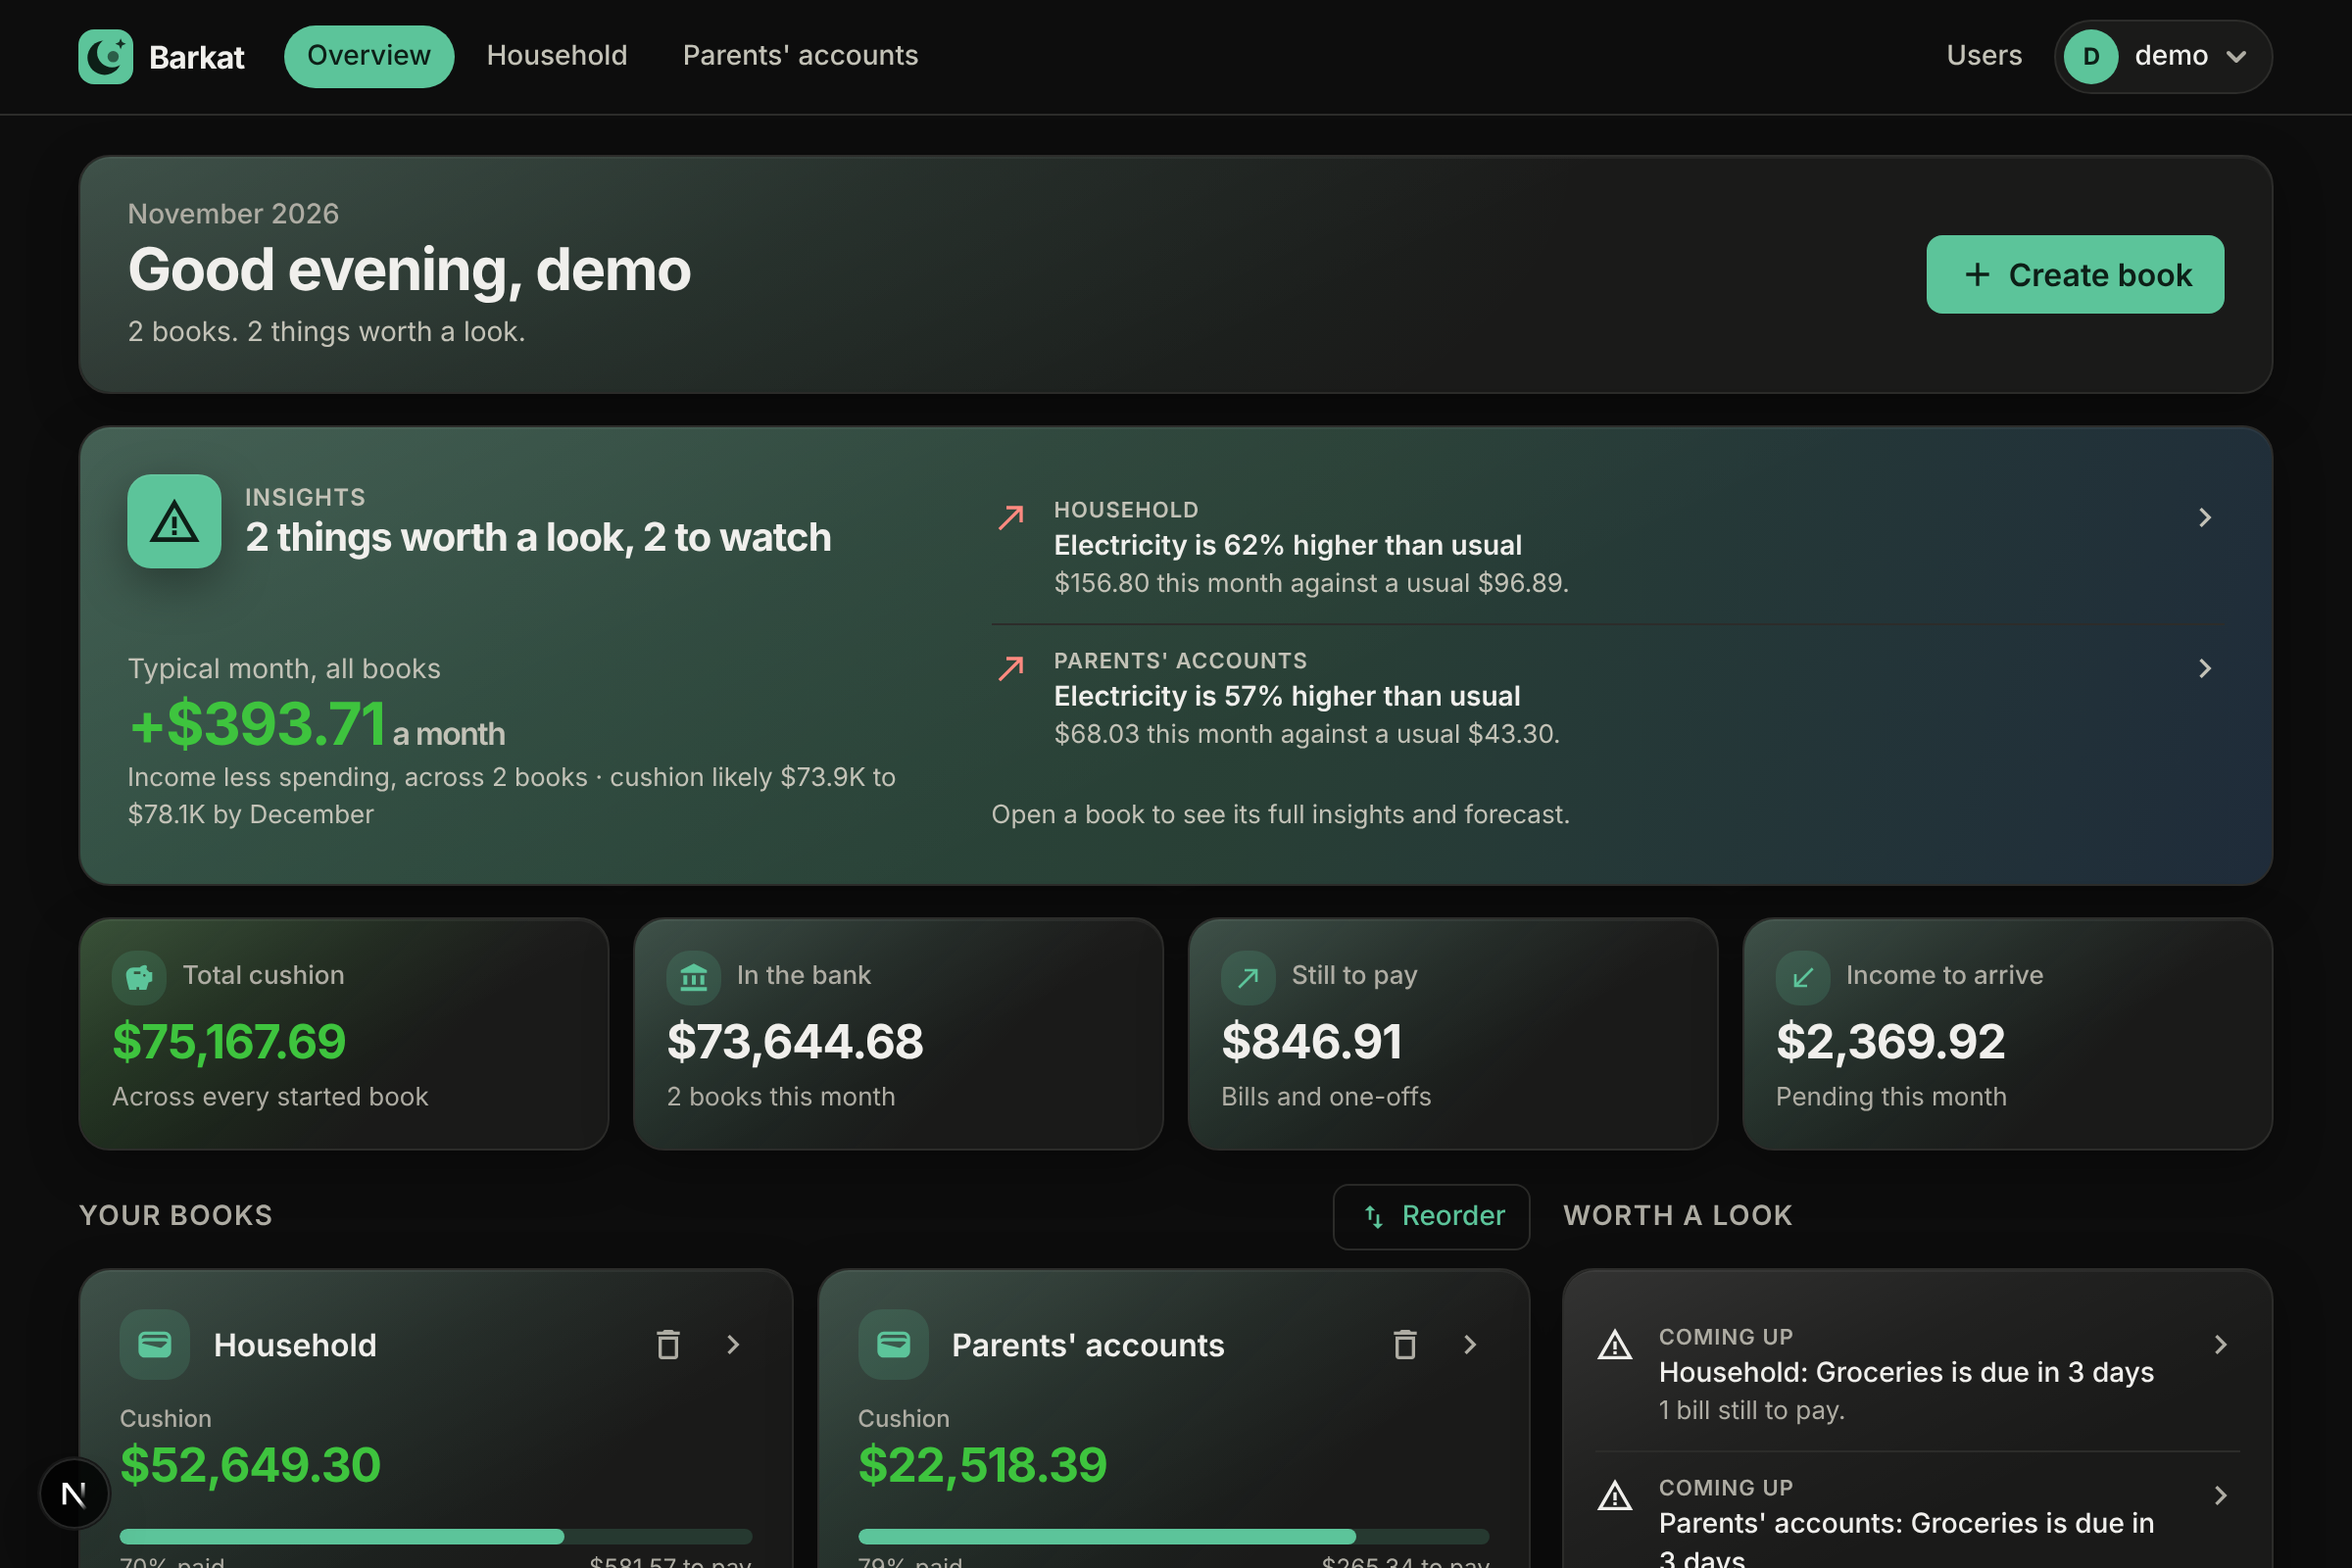
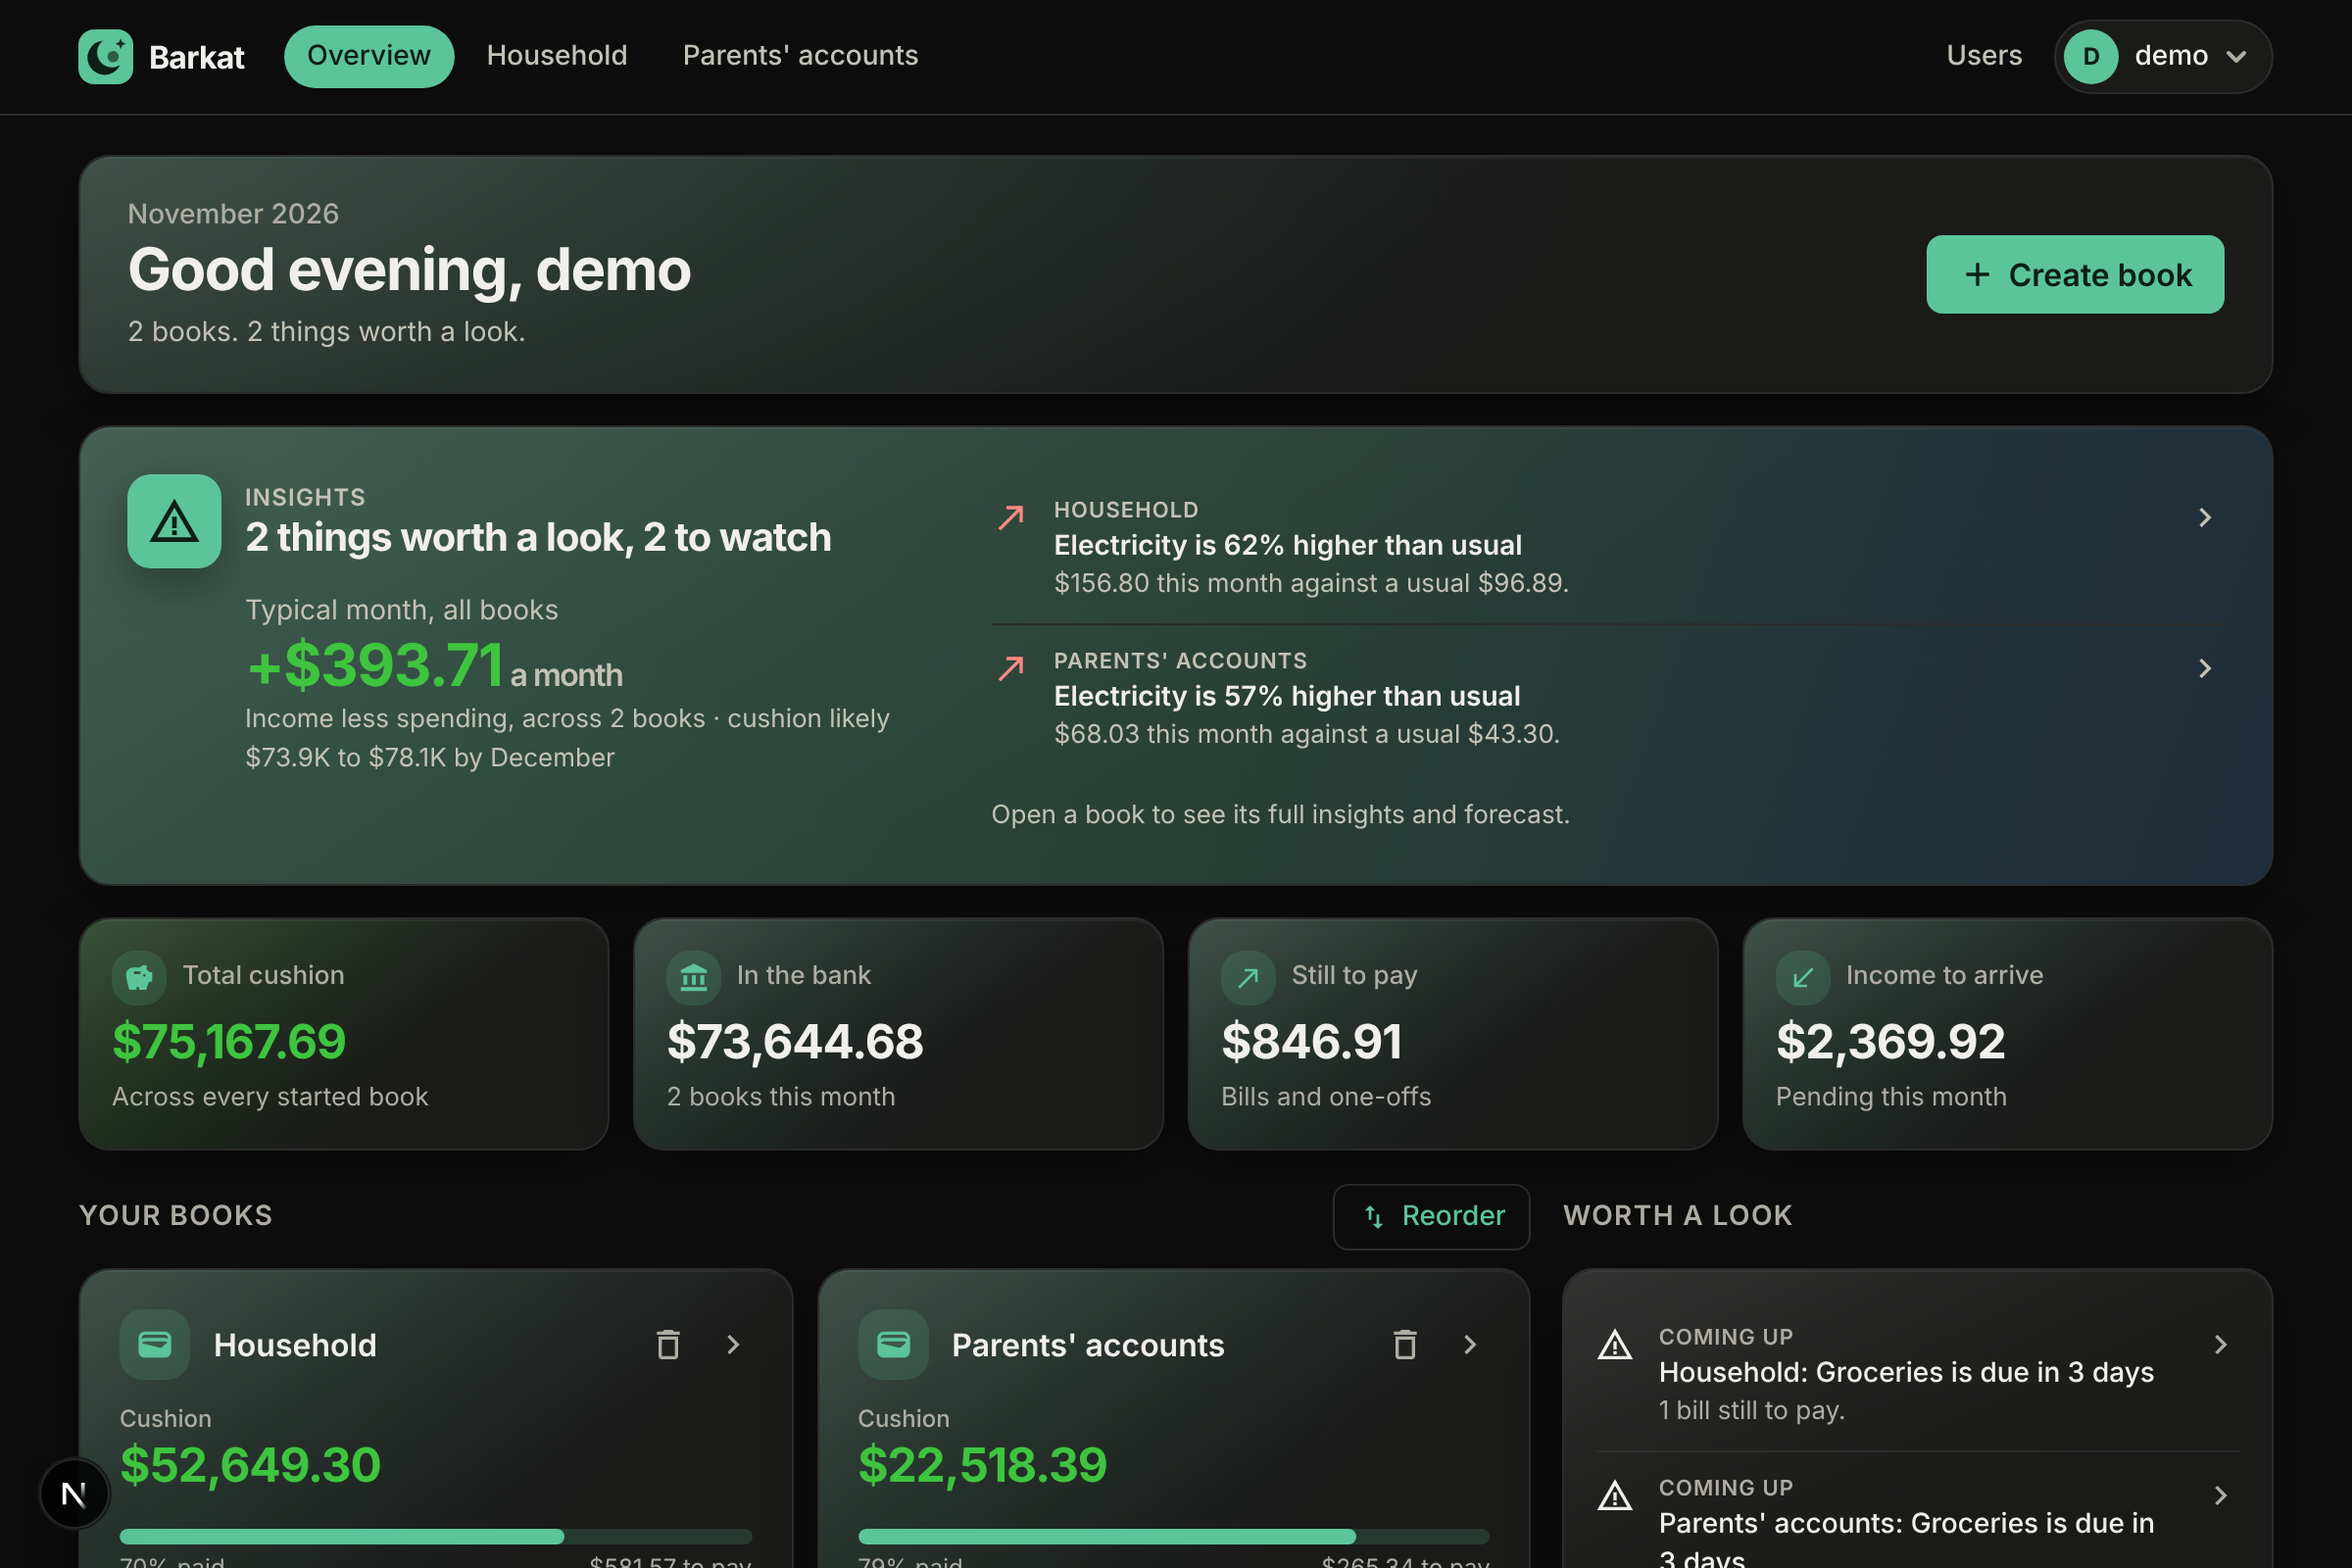
Move the typical-month figure up and in line with the Overview insights headline
Claude-Session: https://claude.ai/code/session_01BwwsQpepoFFDE9bGD7rFmF

Changed region(s): [[0.0625, 0.375, 0.375, 0.5312]]

diff --git a/web/src/app/(app)/page.tsx b/web/src/app/(app)/page.tsx
@@ -276,7 +276,7 @@ function InsightsBanner({ insights }: { insights: OverviewInsights }) {
       aria-label="Insights"
       className={`${card} insight-pop grid gap-x-8 gap-y-5 !border-accent/50 bg-[linear-gradient(110deg,color-mix(in_srgb,var(--accent)_30%,var(--surface)),color-mix(in_srgb,var(--fill)_22%,var(--surface))_55%,color-mix(in_srgb,var(--series-1)_16%,var(--surface)))] px-6 py-6 shadow-[0_0.75rem_2rem_color-mix(in_srgb,var(--accent)_28%,transparent)] lg:grid-cols-5`}
     >
-      <div className="flex flex-col justify-between gap-4 lg:col-span-2">
+      <div className="flex flex-col gap-3 lg:col-span-2">
         <div className="flex items-center gap-3">
           <span className="grid h-12 w-12 shrink-0 place-items-center rounded-xl bg-accent text-accent-ink shadow-card" aria-hidden>
             {total > 0 ? <MdWarningAmber className="h-7 w-7" /> : <MdInsights className="h-7 w-7" />}
@@ -289,7 +289,7 @@ function InsightsBanner({ insights }: { insights: OverviewInsights }) {
           </div>
         </div>
         {net !== null && (
-          <div>
+          <div className="pl-[3.75rem]">
             <p className="text-sm text-ink2">Typical month, all books</p>
             <p className={`text-3xl font-bold tracking-tight ${net >= 0 ? "text-good-bright" : "text-bad-bright"}`}>
               {net >= 0 ? "+" : "-"}
